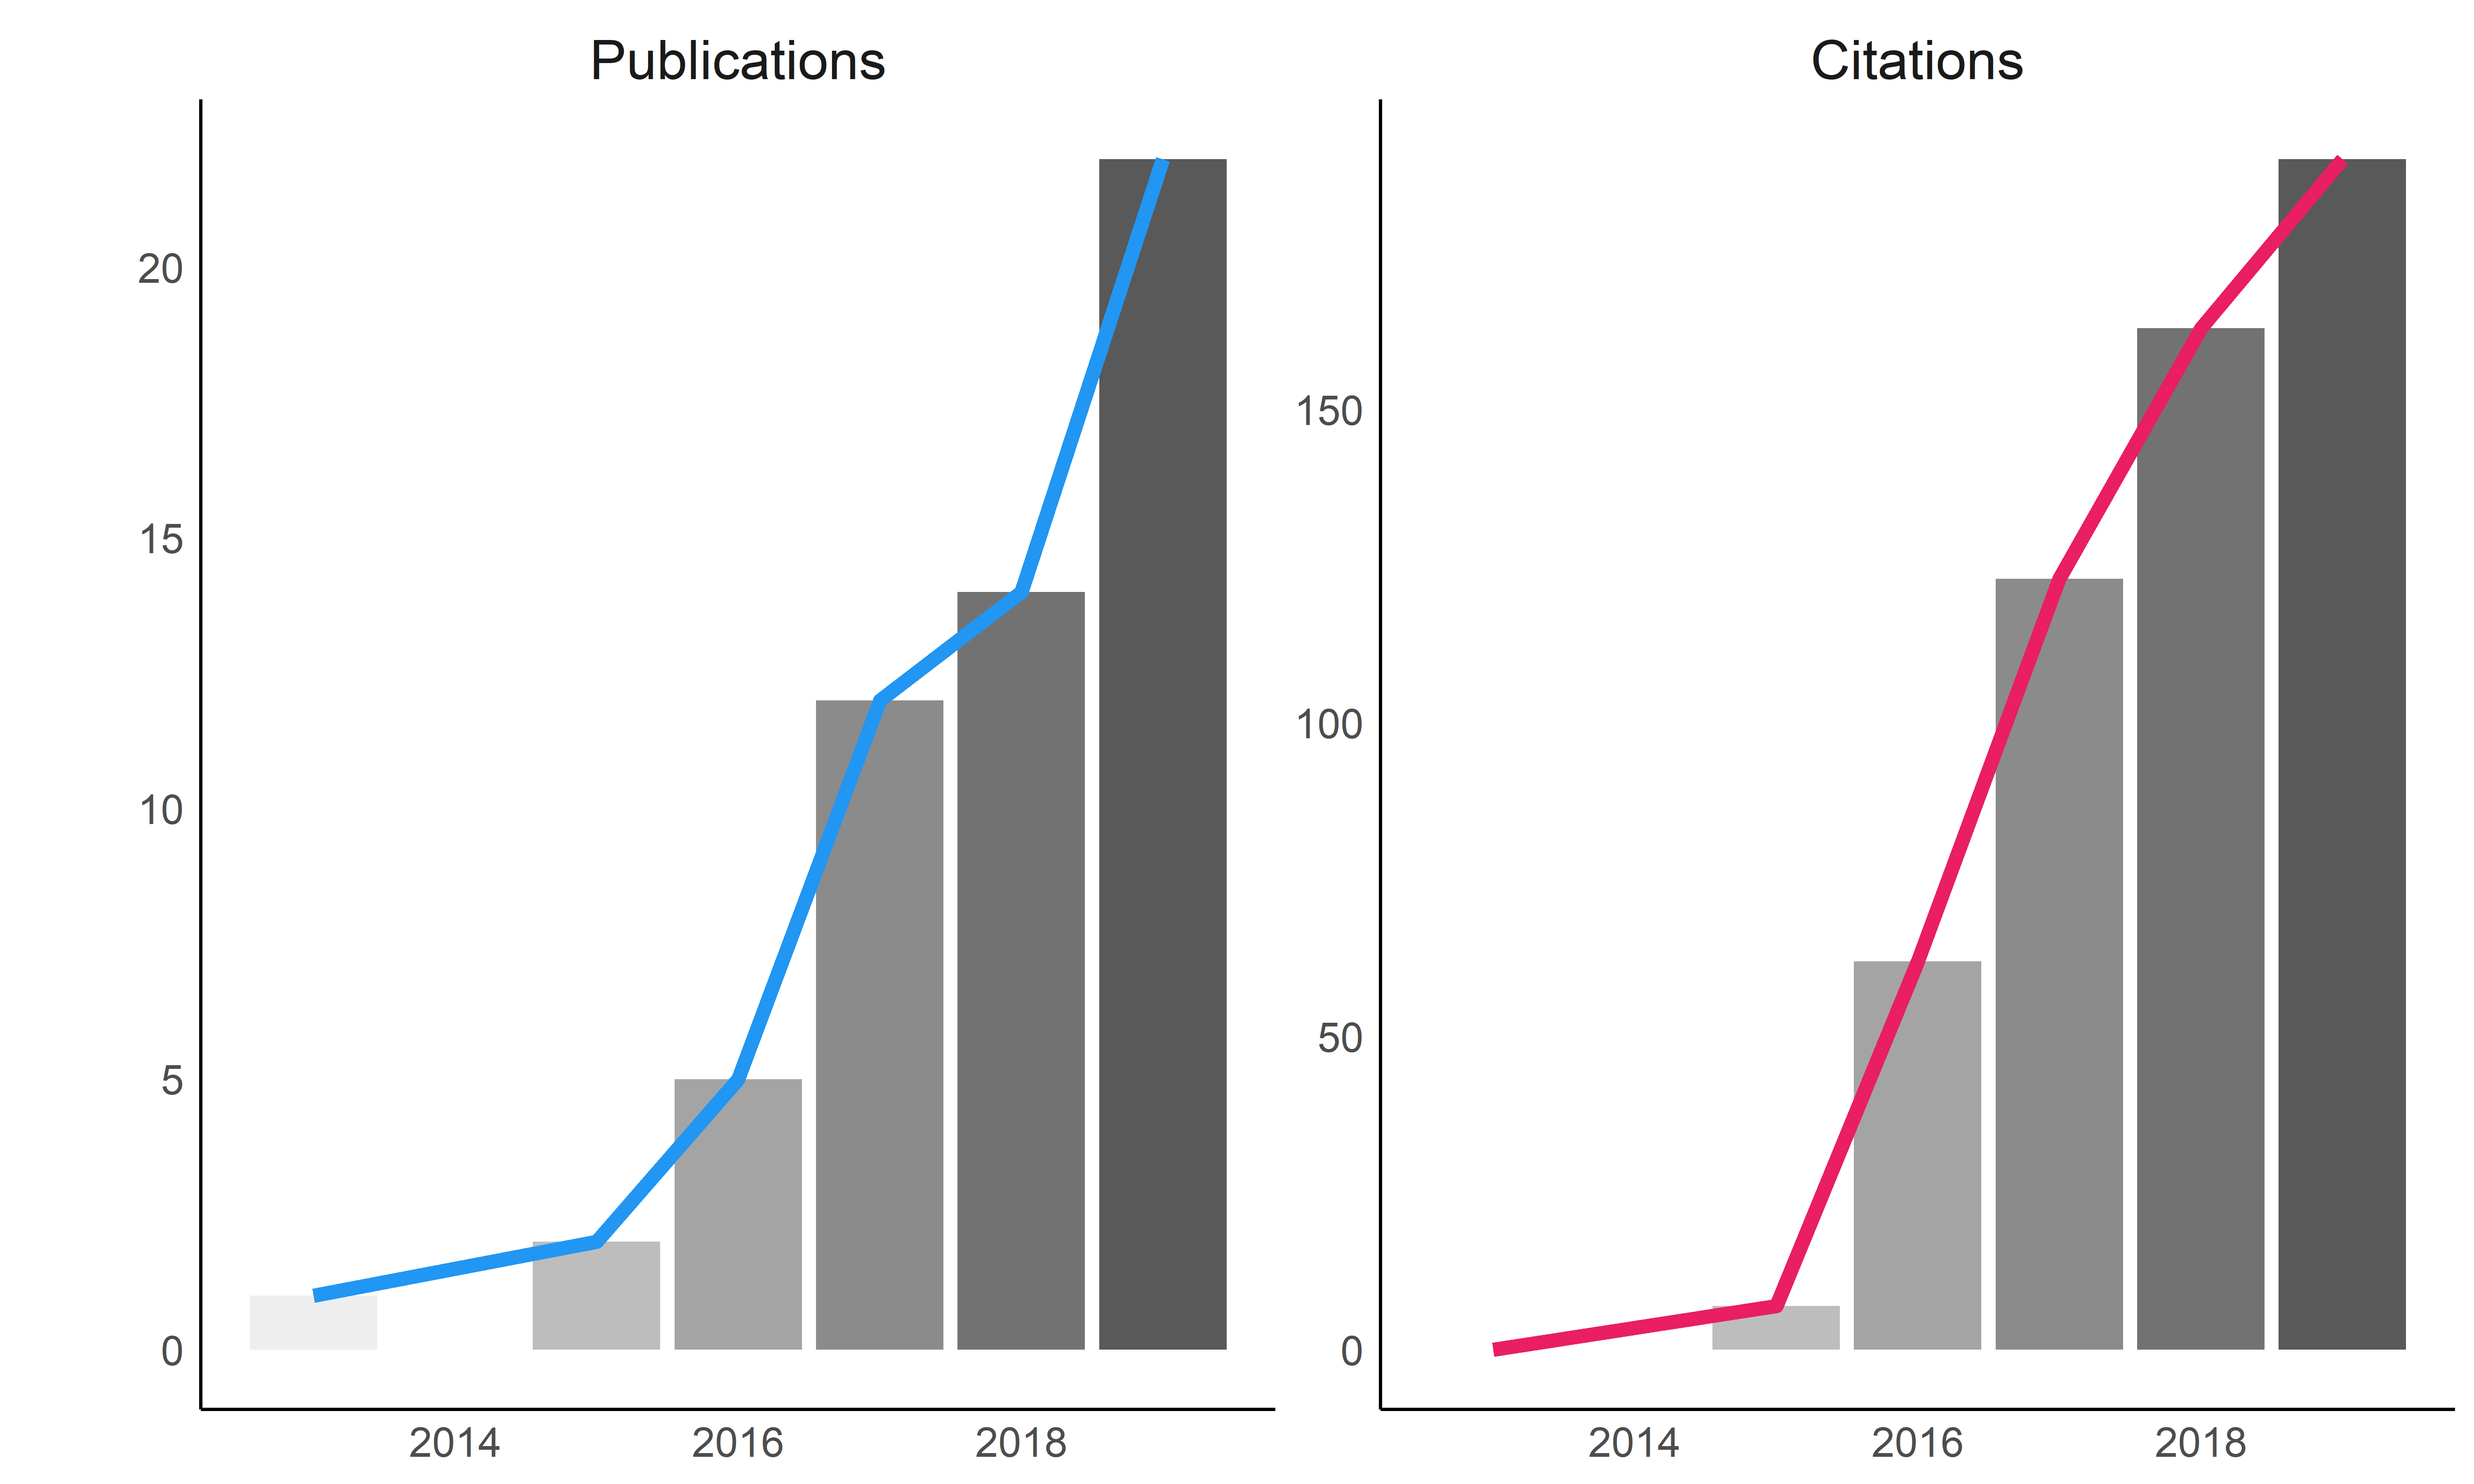
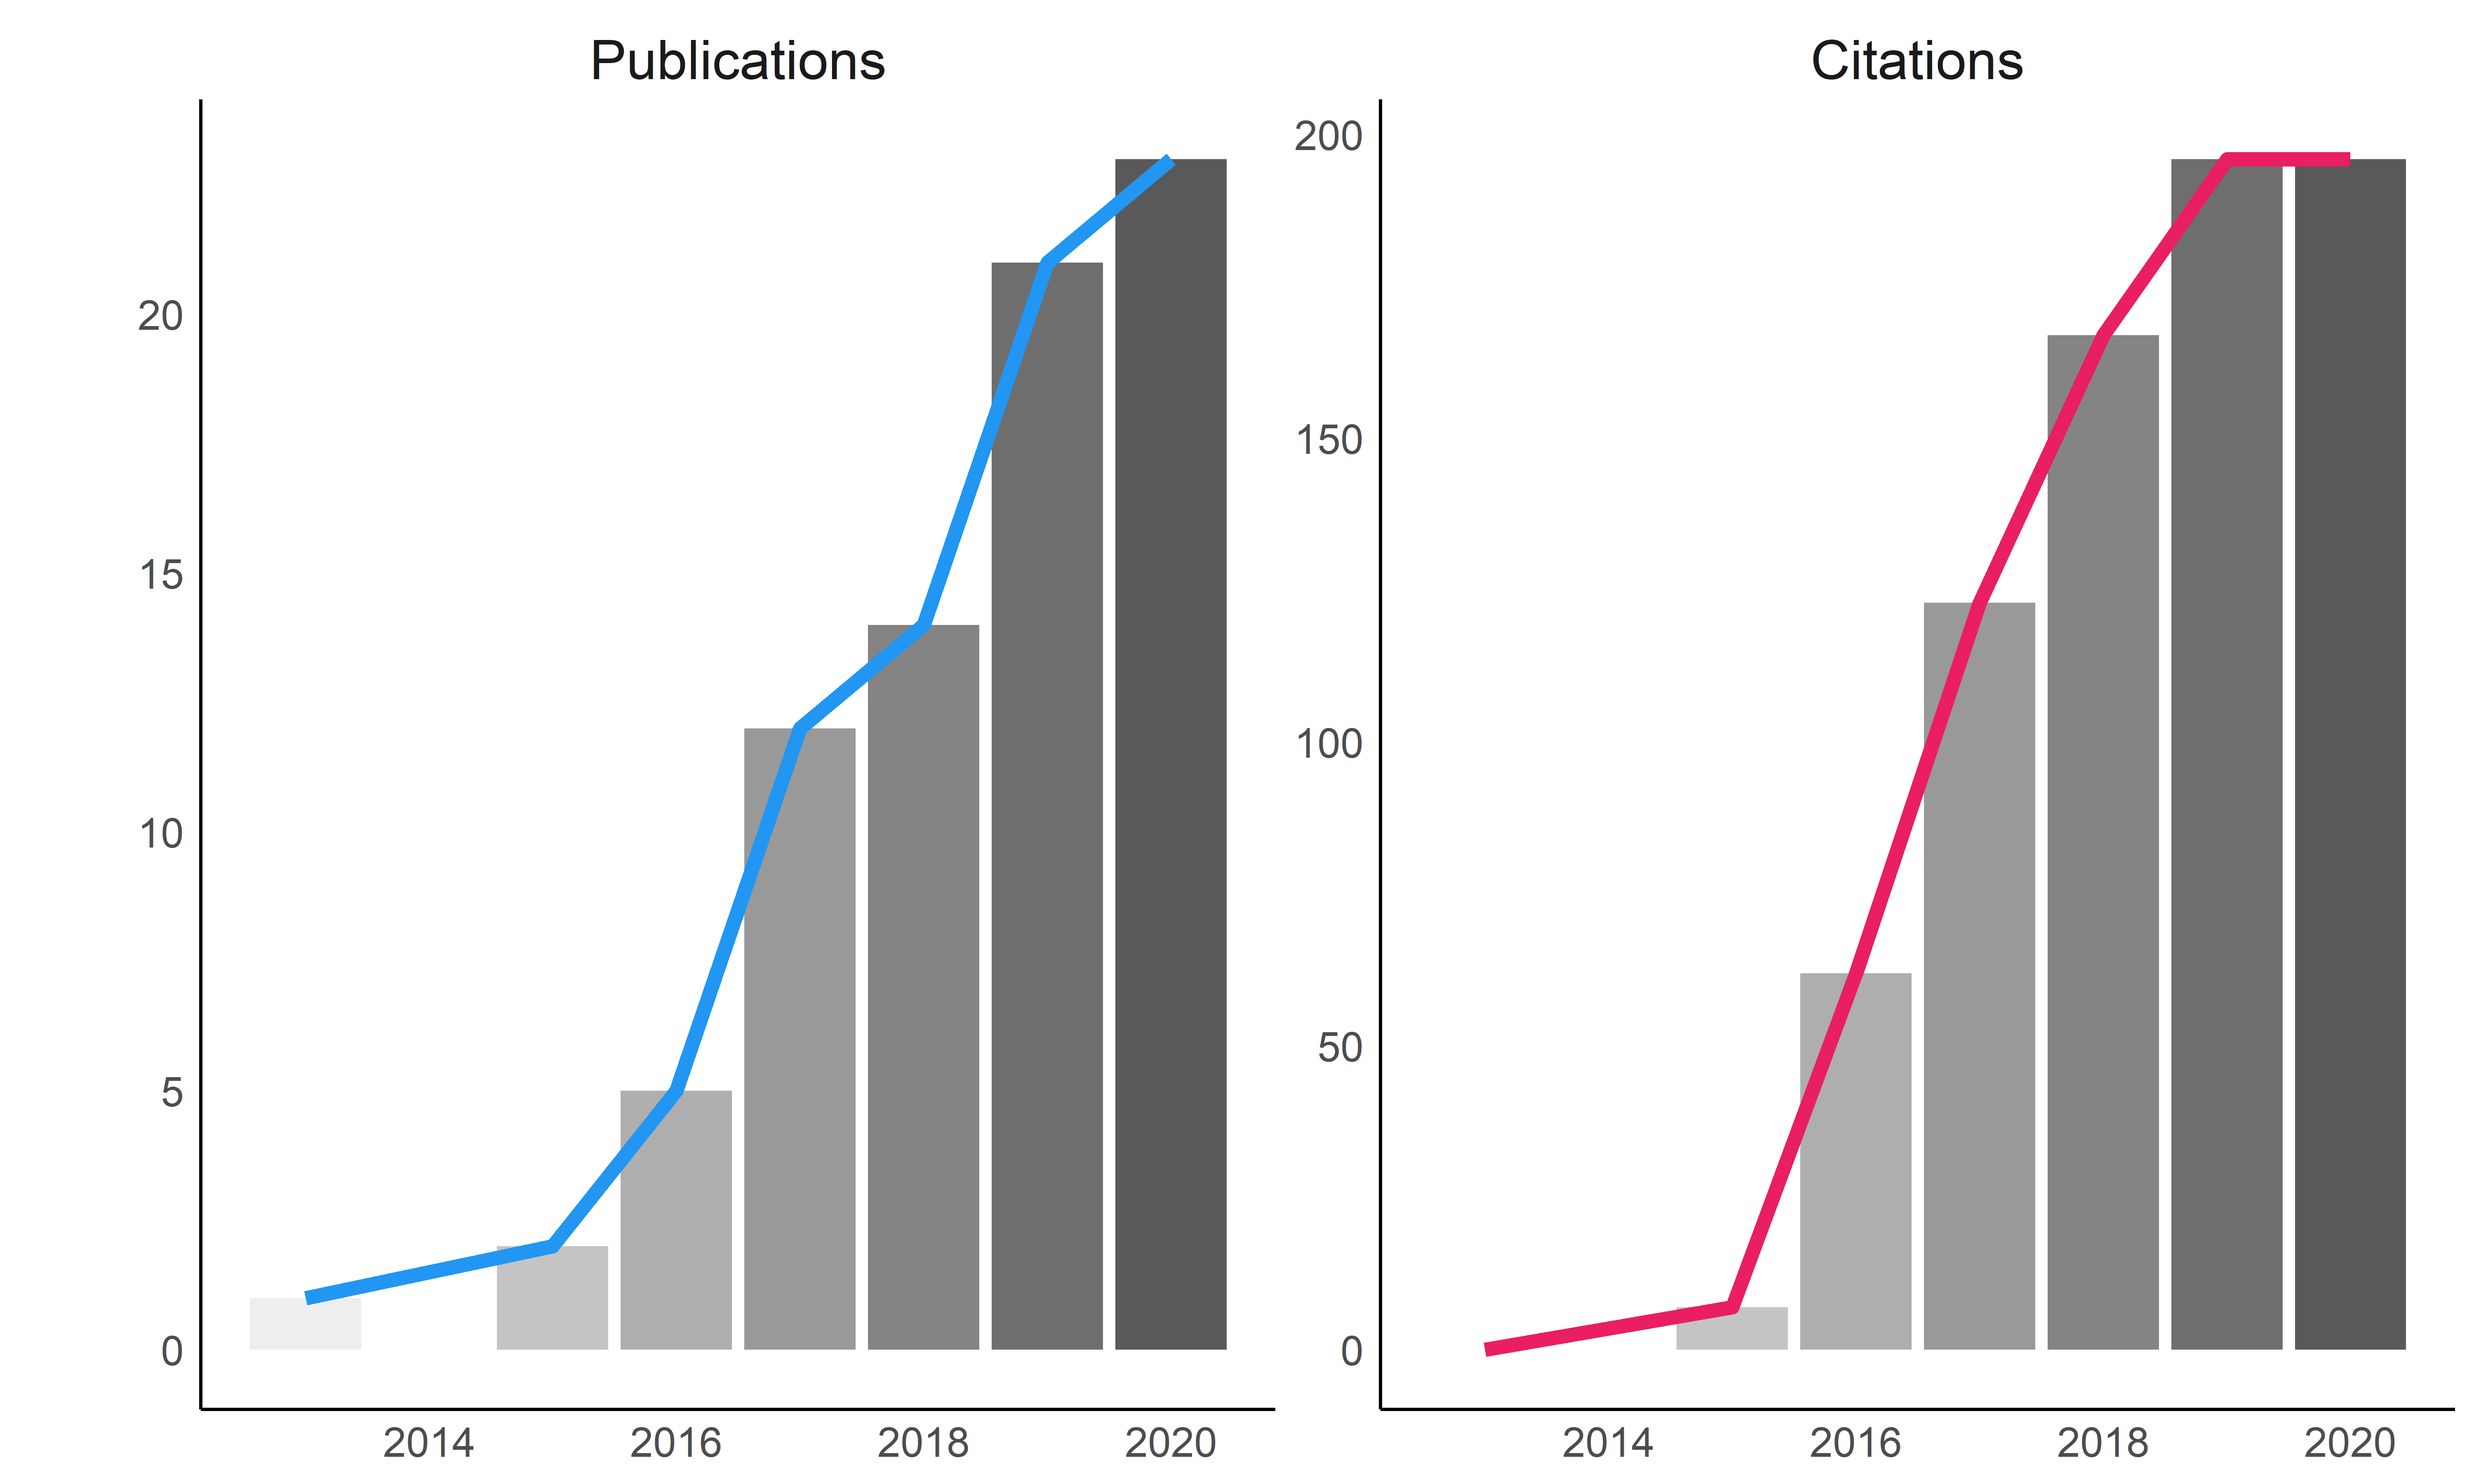
update coauthor network

diff --git a/README.md b/README.md
@@ -19,12 +19,12 @@ My research wordcloud, based on the most frequent words of my papers
 
 </p>
 
-## Scientific Impact <sub>*(retrieved on 10 March 2020)*</sub>
+## Scientific Impact <sub>*(retrieved on 18 March 2020)*</sub>
 
 | Metric                 | Score |
 | :--------------------- | ----: |
-| Number of Publications |    22 |
-| Number of Citations    |   188 |
+| Number of Publications |    23 |
+| Number of Citations    |   194 |
 | h-index                |     8 |
 | i10-index              |     8 |
 
@@ -44,6 +44,17 @@ listed).
 ## Communications
 
 ### Publications
+
+<p align="center">
+
+*2020*
+
+</p>
+
+**Makowski, D.**, Pham, T., Lau Z. J., Leow D., Raine A., & Chen, S. H.
+*(under review)*. [The Structure of Deception: Validation of the Lying
+Profile
+Questionnaire](https://dominiquemakowski.github.io/publication/makowski2019heart/makowski2020structure.pdf).
 
 <p align="center">
 
